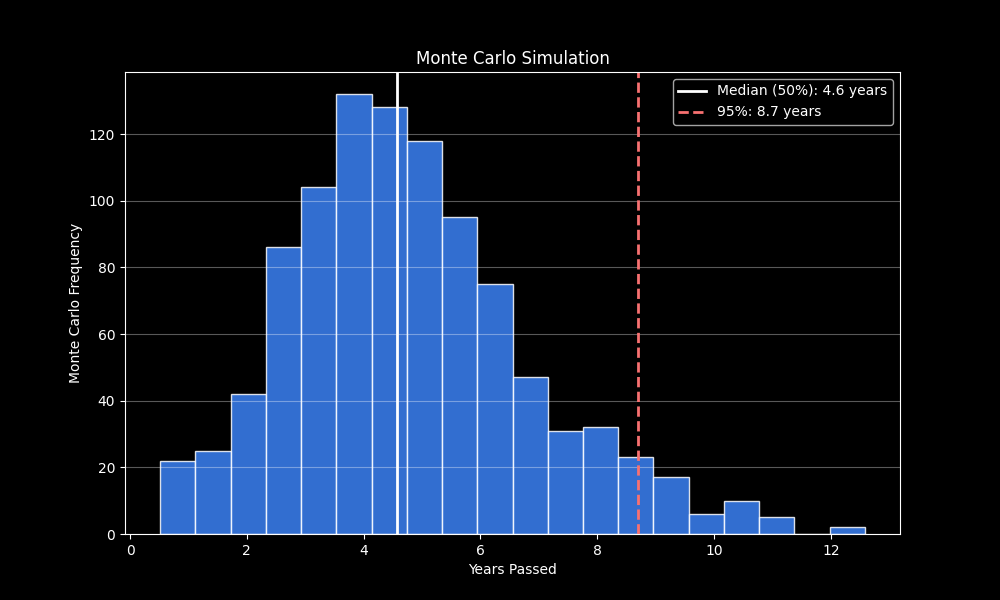
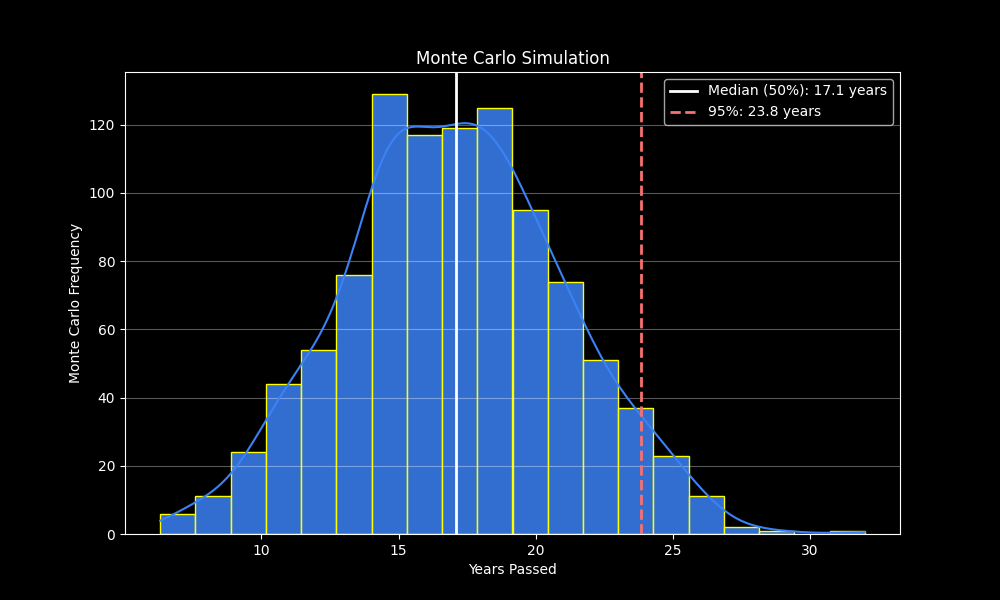
fixed and added new monte_carlo improved file which is more accurate but idk why  but it goes by years instead of months

Changed region(s): [[0.093, 0.12, 0.899, 0.93], [0.093, 0.3, 0.124, 0.36], [0.093, 0.18, 0.124, 0.24]]

diff --git a/scripts/monte_carlo_improved.py b/scripts/monte_carlo_improved.py
@@ -4,9 +4,11 @@ import numpy as np
 import matplotlib.pyplot as plt
 from flatten_data import VisaDataProcessor
 from tqdm import tqdm
+import seaborn as sns
 
 def gen_sim_parameters(total_greencards = 140_000, country_cap = 0.07, category_preference = 0.286, n_years = 100):
     base_quota = total_greencards * country_cap * category_preference
+    #spillovers
     ranges = {
         "zero": (0, 2000),
         "low": (2000, 15000),
@@ -18,10 +20,14 @@ def gen_sim_parameters(total_greencards = 140_000, country_cap = 0.07, category_
     probs = [0.3, 0.35, 0.25, 0.08, 0.02]
     choices = [np.random.choice(scenarios, p=probs) for _ in range(n_years)]
     spillover_list = [np.random.randint(ranges[choices[i]][0], ranges[choices[i]][1] + 1) for i in range(n_years)]
-    return base_quota, spillover_list
+    #extra factors
+    dependancy_ratio = np.random.triangular(left = 1.9, right = 3.0, mode = 1.9)
+    duplicate_rate = np.random.uniform(0.05, 0.10)
+    attrition_rates = [np.random.uniform(0.01, 0.04) for _ in range(n_years)]
+    return base_quota, spillover_list,attrition_rates, dependancy_ratio, duplicate_rate, 
 def monte_carlo(vdp, preference, country, sims=1000):
     #paremeters
-    target_date = "2016-08-11"
+    target_date = "2020-08-11"
     target_date = pd.to_datetime(target_date)
     simulation_start_date = pd.Timestamp("2025-10-01")
     i_140_inventory_date = pd.Timestamp("2025-06-01")
@@ -29,29 +35,26 @@ def monte_carlo(vdp, preference, country, sims=1000):
     eb_inventory = eb_inventory[(eb_inventory["Visa Status"] == "Awaiting Availability") & (eb_inventory["Country Of Chargeability"] == country) & (eb_inventory["Preference Category"].str.contains(preference))].sort_values("Date")
     last_inv_date = eb_inventory.iloc[-1]["Date"]
     people_ahead = -1
-    print(last_inv_date)
-    #get people count
-    if target_date > last_inv_date:
-        people_ahead = eb_inventory["Count"].sum()
-        print(people_ahead)
-        gap_days = (i_140_inventory_date - last_inv_date).days
-        gap_position_days = (target_date - last_inv_date).days
-        percent_in_gap = min(gap_position_days / gap_days, 1.0)
-        i_140_inventory_count = vdp.get_i140_snapshot() * percent_in_gap
-        print(i_140_inventory_count)
-        people_ahead += i_140_inventory_count
-    else:
-        people_ahead = eb_inventory[eb_inventory["Date"] < target_date]["Count"].sum()
-        print(people_ahead)
     #calculate year
     results = []
     for _ in tqdm(range(sims), desc="running monte carlo simulations"):
-        quota, spillovers = gen_sim_parameters()
+        quota, spillovers, attr, dep, dupl = gen_sim_parameters()
+        if target_date > last_inv_date:
+            people_ahead = eb_inventory["Count"].sum()
+            gap_days = (i_140_inventory_date - last_inv_date).days
+            gap_position_days = (target_date - last_inv_date).days
+            percent_in_gap = min(gap_position_days / gap_days, 1.0)
+            i_140_inventory_count = vdp.get_i140_snapshot() * percent_in_gap * (1-dupl) * dep
+            people_ahead += i_140_inventory_count
+        else:
+            people_ahead = eb_inventory[eb_inventory["Date"] < target_date]["Count"].sum()
         months_passed = 0
         current_backlog = people_ahead
         year_index = 0
         supply = quota
         supply += spillovers[year_index]
+        people_ahead *= (1 - attr[year_index])
+        current_backlog = people_ahead
         while current_backlog > 0:
             if supply > current_backlog:
                 months_passed += current_backlog/supply * 12
@@ -60,9 +63,11 @@ def monte_carlo(vdp, preference, country, sims=1000):
             months_passed += 12
             year_index += 1
             safe_index = min(year_index, len(spillovers) - 1)
-            supply = quota + spillovers[year_index]
+            supply = quota + spillovers[safe_index]
+            current_backlog *= (1-attr[safe_index])
         results.append(months_passed / 12)
     return results
+
 def plot_histogram(results):
     p50 = np.percentile(results, 50)
     p95 = np.percentile(results, 95)
@@ -71,8 +76,7 @@ def plot_histogram(results):
     plt.style.use("dark_background")
     plt.figure(figsize=(10, 6))
 
-    plt.hist(results, bins=20, color="#3B82F6", edgecolor="white", alpha=0.85)
-
+    sns.histplot(results, bins=20, color="#3B82F6", edgecolor="yellow", alpha=0.85, kde=True)
     plt.axvline(p50, color="white", linestyle="-", linewidth=2, label=f"Median (50%): {p50:.1f} years")
     plt.axvline(p95, color="#F87171", linestyle="--", linewidth=2, label=f"95%: {p95:.1f} years")
 
@@ -85,9 +89,12 @@ def plot_histogram(results):
     plt.savefig("simulation_images/Monte_Carlo_Simulation.png")
     plt.show()
 
+def main():
+    file_path = os.path.join(os.getcwd(), "data", "eb_inventory_october_2025.xlsx")
+    vdp = VisaDataProcessor(file_path, "India", "EB2")
+    results = monte_carlo(vdp, "EB2", "India", sims=1000)
+    print(results)
+    plot_histogram(results)
 
-file_path = os.path.join(os.getcwd(), "data", "eb_inventory_october_2025.xlsx")
-vdp = VisaDataProcessor(file_path, "India", "EB2")
-results = monte_carlo(vdp, "EB2", "India", sims=1000)
-print(results)
-plot_histogram(results)
+if __name__ == "__main__":
+    main()

diff --git a/scripts/flatten_data.py b/scripts/flatten_data.py
@@ -60,5 +60,4 @@ class VisaDataProcessor():
         }
         if row.empty:
             return 0
-        print(int(row[mapping.get(self.preference)].iloc[0]))
         return int(row[mapping.get(self.preference)].iloc[0])
